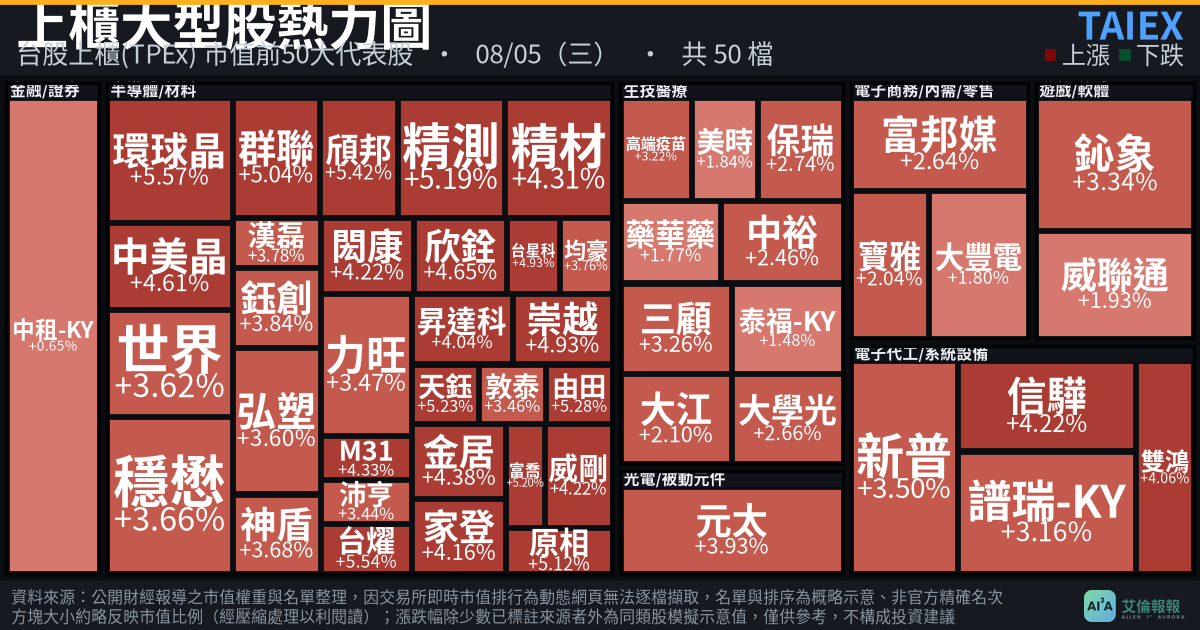
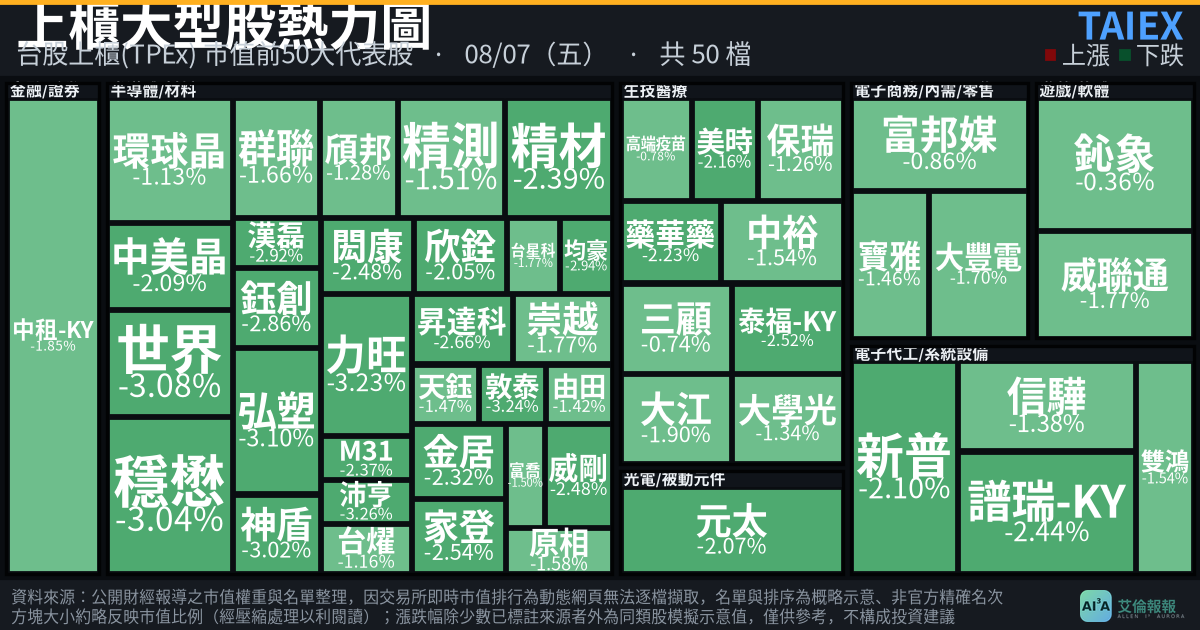
feat(heatmap): 熱力圖更新至 2026/08/07 收盤，前一日移入歷期彙整＋每日 20:00 排程
- 熱力圖刷新為 2026/08/07 收盤真實數據（加權指數 44,225.91、-0.38%，
  櫃買 384.19、-1.83%；權值電子疲軟、被動元件重災，塑化／鋼鐵／航空逆勢走強）
- 前一日 2026.08.05 圖卡移入 data/heatmap-archive.json（歷期彙整），
  並將其站內圖歸檔至 assets/heatmap/archive/
- 新增 scripts/rotate-heatmap.mjs：換日＋歸檔的可重複執行腳本
- 新增 docs/heatmap-daily-schedule.md：每日台北 20:00 自動更新排程說明

Claude-Session: https://claude.ai/code/session_018BGiaY4HA1hgTGJfjyo8Xo

diff --git a/docs/heatmap-daily-schedule.md b/docs/heatmap-daily-schedule.md
@@ -1,0 +1,51 @@
+# 台股熱力圖 · 每日 20:00 自動更新排程
+
+「台股熱力圖 · 上市／上櫃」每個交易日下午 **20:00（台北時間）** 自動更新為當日
+最新收盤，並把前一日圖卡移入前台「歷期彙整」。
+
+## 為什麼用 Claude 排程（而非純 GitHub Actions）
+
+這項工作需要「查證當日真實收盤數字」與「重新產生熱力圖圖卡」，屬於需要判斷、
+搜尋與影像產出的智慧型任務，純 cron 腳本無法完成。因此排程以 **Claude Code
+Remote 定時任務（每次觸發開新的 Claude session）** 執行，session 內：
+
+1. 判斷最近一個「已收盤的交易日」（非交易日／假日則不動作）。
+2. 依 `taiex-heatmap` skill 用 WebSearch 查證當日加權指數、櫃買指數與主要
+   個股／類股漲跌，覆蓋 `taiex_data.py` 後產出四張圖（上市／上櫃 × FB／IG）。
+3. 準備 `payload.json`（見下），執行
+   `node scripts/rotate-heatmap.mjs payload.json`：
+   - 把「目前站內圖」複製為前一日歸檔圖
+     `assets/heatmap/archive/<market>-<YYYYMMDD>-<fmt>.png`；
+   - 前一日資訊 `unshift` 進 `data/heatmap-archive.json`（依 `no` 去重）；
+   - 依 payload 覆寫 `data/heatmap.json` 為最新一日。
+4. 把新圖覆蓋 `assets/heatmap/{twse,tpex}-heatmap-{fb,ig}.png`。
+5. 在功能分支 commit、push、開 PR，驗證（JSON 解析、圖面檢查）通過後合併 `main`。
+
+## 排程時間
+
+- 觸發：`cron 0 12 * * 1-5`（UTC）＝ 台北時間 **週一至週五 20:00**。
+- 台股 09:00–13:30 交易、約 15:00 盤後資料確認，20:00 執行可取得當日確定收盤。
+- 遇國定假日／無新交易日，session 會自行判斷並跳過（不產生 commit）。
+
+## payload.json 範例
+
+```json
+{
+  "date": "2026.08.07",
+  "dateLabel": "2026/08/07（五）",
+  "asOf": "2026.08.07",
+  "taiex": { "index": "44,225.91", "change": "-170.79", "changePct": "-0.38%", "up": false },
+  "tpex":  { "index": "384.19",   "change": "-7.18",   "changePct": "-1.83%", "up": false },
+  "summary": "【理財】台股熱力圖 · 上市／上櫃｜2026.08.07 …",
+  "hashtags": "#台股 #台股熱力圖 #市值熱力圖 #上市 #上櫃 #艾倫報報 #AllenI3Aurora",
+  "note": "加權指數為證交所 2026/08/07 收盤資料…資料僅供參考，不構成投資建議。"
+}
+```
+
+## 相關檔案
+
+- `scripts/rotate-heatmap.mjs` —— 換日＋歸檔的可重複執行腳本（本排程呼叫）。
+- `data/heatmap.json` —— 最新一日（前台 `heatmap.html` 讀取）。
+- `data/heatmap-archive.json` —— 歷期彙整（前台以 kind「熱力圖」呈現）。
+- `assets/heatmap/` —— 最新一日站內圖；`assets/heatmap/archive/` 為歷期歸檔圖。
+- `taiex-heatmap` skill —— 產圖邏輯（字型量測、防重疊、5 階配色、市值面積壓縮）。
